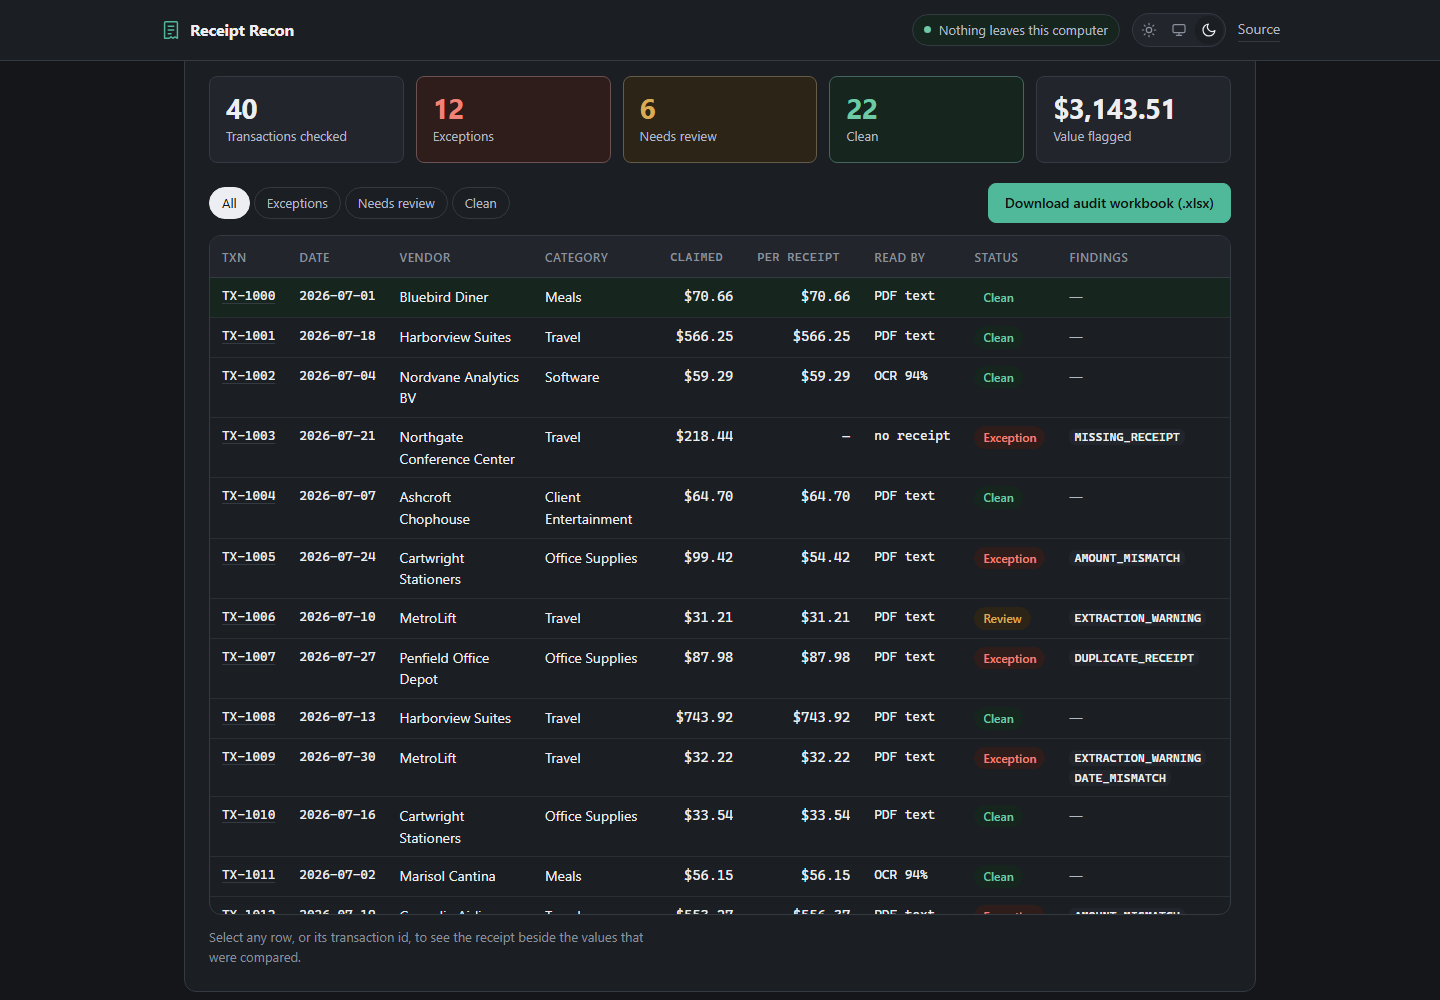
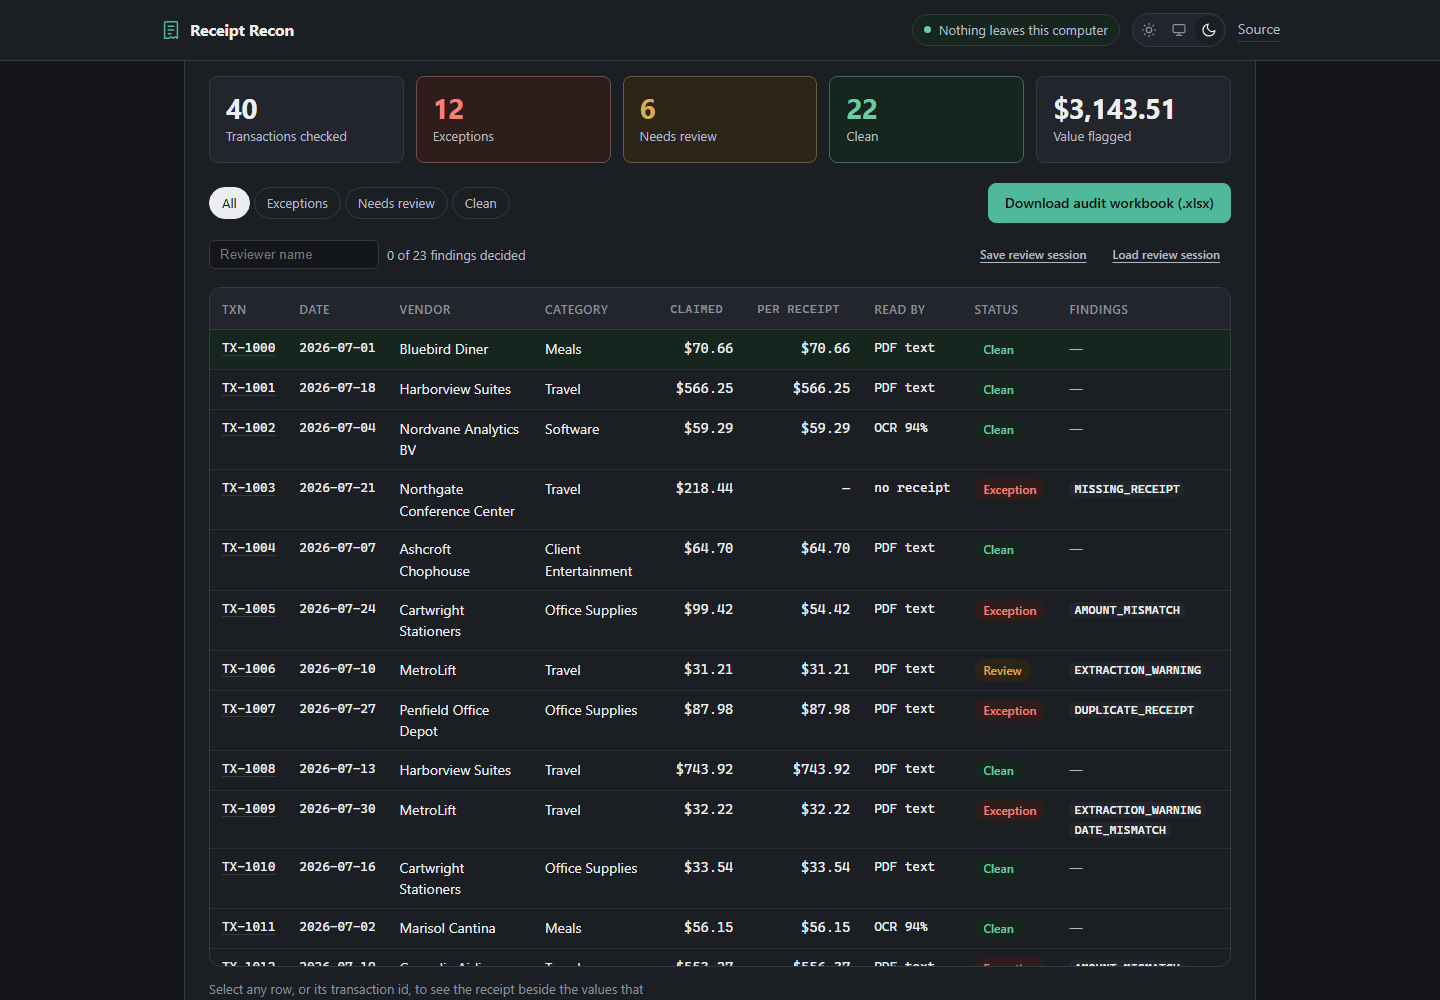
docs+test: browser/a11y coverage and docs for the roadmap batch
browser-check gains: policy-file round-trip and rejection, FX view with the
conversion-free guarantee, column-mapping override driving the audit, PNG
receipt via OCR, ignored-files-by-name, statement reconciliation, reviewer
decision landing in the workbook with the run hash unmoved. a11y-check gains:
focus and naming for every new control, keyboard-only decisions. README,
ROADMAP status, DECISIONS entries for the three owner calls. Screenshots
regenerated.

Claude-Session: https://claude.ai/code/session_01KsNSdUtTFSrRJa7FjuRoH4

diff --git a/README.md b/README.md
@@ -100,6 +100,11 @@ Every rule is deterministic and every threshold is editable in the UI.
 - `BUDGET_CURRENCY_AMBIGUOUS` — a budget line with no stated currency over spend in several currencies; unverifiable, and says so
 - `BUDGET_UNBUDGETED_SPEND` — spend in a category the budget never mentions
 
+**Card-statement reconciliation**, when you drop in the month's card export (optional, local file only — no bank connection)
+- `UNCLAIMED_CHARGE` — a statement charge with no matching expense row at all: spend that was never reported. This used to be the tool's biggest declared blind spot
+- `CLAIMED_NOT_ON_STATEMENT` — an expense row with no charge behind it. Soft, because cash or a personal card is an innocent explanation
+- Matching is one-to-one, within a named date tolerance (default 5 days, editable) and the amount tolerance; amounts are compared as absolute values because card exports disagree on sign, and payment lines are skipped and disclosed
+
 **Patterns across the whole batch** (invisible to any per-row check)
 - `DUPLICATE_RECEIPT` — the same PDF cited by two rows; both get flagged, because the tool cannot know which is the original
 - `DUPLICATE_CHARGE` — same vendor, date and amount claimed twice under different receipts
@@ -110,14 +115,15 @@ Every rule is deterministic and every threshold is editable in the UI.
 
 ## What you get
 
-An `.xlsx` with four tabs, five when a budget was reconciled:
+An `.xlsx` with four tabs, plus one each when a budget or a card statement was reconciled:
 
 | Tab | What's in it |
 | --- | --- |
-| **Summary** | Counts, value flagged per currency, findings by rule, and a SHA-256 run hash |
+| **Summary** | Counts, value flagged per currency, findings by rule, a per-employee breakdown sorted by flagged value, and a SHA-256 run hash |
 | **Audit Detail** | Every transaction, not just the problems, with how each receipt was read and at what confidence |
-| **Exceptions** | One row per finding, with the triggering value, the threshold, and blank **reviewer decision / reviewer / date / note** columns |
-| **Budget Recon** | Each budget line against actual spend in its own currency, with the overruns and everything that could not be verified |
+| **Exceptions** | One row per finding, with the triggering value, the threshold, and the **reviewer decision / reviewer / date / note** columns — pre-filled with the decisions you made in the evidence drawer, blank where the item is still open |
+| **Budget Recon** | Each budget line against actual spend in its own currency, with the overruns and everything that could not be verified. If you typed FX rates into the policy panel, a clearly labelled "at your stated rates" estimate is appended — findings never use it |
+| **Statement Recon** | The matching rule with its tolerances, every unclaimed charge, and the rows with no charge behind them |
 | **Methodology** | The ruleset version, every threshold applied, and an explicit list of what was *not* verified |
 
 The run hash is the reproducibility proof: same report, same receipts, same policy,
@@ -147,14 +153,30 @@ python tools/make_sample_data.py --count 350
    sheet holding the transactions is found automatically, and if the workbook has
    a budget or cover sheet (a table with a category column and a budget column,
    in one currency or several), it is picked up and reconciled against the
-   report. Both guesses are shown as dropdowns you can override.
-3. Drop in the receipts folder. Files are matched by the receipt-file column, falling
-   back to matching on the transaction ID.
-4. Adjust **Policy settings** to your own thresholds and word lists — category
+   report. Both guesses are shown as dropdowns you can override — and **Columns
+   we found** shows exactly which column feeds each field, with a dropdown per
+   field to correct a wrong guess. Corrections are remembered on this computer
+   for files with the same header row, so a monthly export is fixed once.
+3. Drop in the receipts folder. PDFs and phone photos (`.jpg`, `.jpeg`, `.png`,
+   `.webp`) both work; photos are read by the OCR tier. Files are matched by the
+   receipt-file column, falling back to matching on the transaction ID. Anything
+   that is not a receipt is reported ignored, by name.
+4. Optionally drop in the month's **card statement** export (`.xlsx` or `.csv`,
+   downloaded by you — the tool never connects to a bank). Charges that were
+   never expensed and expense rows with no charge behind them both surface.
+5. Adjust **Policy settings** to your own thresholds and word lists — category
    limits, alcohol and personal-expense keywords, receipt-exempt categories, all
    of it. Your policy is remembered in this browser (never uploaded), so an
-   in-house policy is taught once.
-5. **Run the audit**, then download the workbook.
+   in-house policy is taught once. **Save policy file** writes it to a plain
+   JSON file you can keep in version control or hand to a colleague; **Load
+   policy file** applies one, after checking every value's type. You can also
+   type month-end FX rates: they feed only a clearly labelled "at your stated
+   rates" estimate under the budget card — no finding ever converts a currency.
+6. **Run the audit.** Review each finding in the evidence drawer: Approve,
+   Reject or Needs-follow-up, with a note. Decisions land in the workbook's
+   Exceptions tab, and **Save review session** keeps them as a file you can
+   reload later — they are deliberately not stored in the browser.
+7. Download the workbook.
 
 Roughly a minute for 350 transactions when most have a text layer, longer if many
 need OCR.
@@ -179,8 +201,13 @@ light or dark from the top bar.
 
 Read these before relying on it.
 
-- **No bank or card statement is compared.** Only the report and its attachments. A
-  charge that exists with no row at all is invisible to this tool.
+- **The card statement is compared only if you supply it, and only that file.**
+  There is no bank connection, on purpose. Skip the statement drop and a charge
+  that exists with no expense row stays invisible, exactly as before.
+- **FX rates are yours, not the market's.** The "at your stated rates" view uses
+  numbers you typed; a hand-typed month-end rate rarely reconciles to the penny
+  against the card's actual conversion. That is why it is an estimate view and
+  never a finding.
 - **OCR quality on genuinely bad receipts is the weak point.** Tesseract handles clean
   scans well (94% confidence on the sample set) and struggles with crumpled, angled
   phone photos. Low-confidence reads are flagged, never silently accepted.
@@ -195,7 +222,7 @@ Read these before relying on it.
 ```bash
 npm install          # dev-only; the app itself has zero runtime dependencies
 npm run sample       # regenerate the sample data (needs Python + reportlab, openpyxl, pypdfium2)
-npm test             # 37 unit and integration tests
+npm test             # 87 unit and integration tests
 npm run serve        # http://localhost:8080
 node tools/browser-check.mjs   # drives the real page in a real browser
 node tools/a11y-check.mjs      # keyboard, focus, contrast, sorting, theming
@@ -209,15 +236,16 @@ external network request**. It also corrupts one PDF in a copy of the sample
 folder and asserts the run still renders all 40 rows with exactly one
 `UNREADABLE_RECEIPT`, because one bad file must cost one row and not the run.
 
-`a11y-check.mjs` asks whether the audit is **usable**. Twenty-two assertions,
-each one mapped to a defect that shipped in an earlier version: both file
-pickers reachable by Tab, focus moving into the evidence drawer and back out to
+`a11y-check.mjs` asks whether the audit is **usable**, with each assertion
+mapped to a defect that shipped in an earlier version: both file pickers
+reachable by Tab, focus moving into the evidence drawer and back out to
 the row that opened it, the table header actually sticking, sort order including
 the blanks-last rule, theme persistence across a reload, severity stated in
 words rather than colour alone, the evidence drawer paging through a multi-page
 receipt by keyboard, re-picking the receipts folder replacing the previous set
-instead of merging with it, and **every rendered text node measured against WCAG
-AA in both themes**. The contrast check is measured on the painted page, not
+instead of merging with it, reviewer decisions operable by keyboard alone with
+their pressed state exposed, every column-mapping select bound to a label, and
+**every rendered text node measured against WCAG AA in both themes**. The contrast check is measured on the painted page, not
 calculated from the tokens, so inherited colours and tinted parents cannot hide a
 failure.
 

diff --git a/docs/DECISIONS.md b/docs/DECISIONS.md
@@ -5,6 +5,53 @@ what was rejected, the date.
 
 ---
 
+## Statement reconciliation: named tolerances, HARD/SOFT split, no bank API
+
+**Date:** 2026-08-14
+
+**Decision.** Roadmap #19 shipped local-file only. The design spec it demanded:
+a statement charge matches an expense row when amounts agree within
+`amountToleranceAbs` and dates within `statementDateToleranceDays` (default 5,
+editable), same currency when both sides state one, one-to-one matching with
+smallest date gap winning and vendor similarity only as a tiebreak (issuer
+descriptors like "SQ *COFFEE SHOP" are too mangled to require a name match).
+Amounts compare as absolute values because issuers disagree on sign; payment
+lines are skipped by keyword and the skip count disclosed. An unmatched charge
+is `UNCLAIMED_CHARGE` at HARD, report-level — unreported spend is the blind spot
+the Methodology tab used to admit. An unmatched expense row is
+`CLAIMED_NOT_ON_STATEMENT` at SOFT, on the row — cash or a personal card is an
+innocent explanation. Parsed statement lines join the run-hash material when
+present. **Rejected:** any live bank connection (Plaid/OAuth), and HARD severity
+for rows missing from the statement.
+
+## Reviewer decisions persist as an explicit session file, never localStorage
+
+**Date:** 2026-08-14
+
+**Decision.** Roadmap #20's open question. Decisions live in memory, export to
+and reload from a JSON session file carrying the run hash, and are refused
+per-entry when they match no finding in the current run (hash mismatch warns).
+They stay out of the run hash: the hash proves what was audited, and a human's
+verdict is not an input to that. **Rejected:** localStorage auto-restore —
+silently keeping review verdicts on a shared corporate laptop contradicts the
+"nothing is retained" posture, the same reasoning that trimmed policy
+persistence in roadmap #14.
+
+## FX rates the user types feed a labelled estimate view only
+
+**Date:** 2026-08-14
+
+**Decision.** Roadmap #27 shipped as the disclosed-view variant: `fxRates` /
+`fxBase` in the policy produce an "at your stated rates" block on the budget
+card and workbook, with the rates printed beside the converted totals. Findings,
+budget lines and every comparison stay strictly per-currency. **Rejected:** the
+original proposal of converting inside the amount check — a hand-typed rate
+rarely reconciles to the penny against the card's real conversion, so it would
+manufacture mismatches of its own. RULESET_VERSION bumped 1.0.0 → 1.1.0 because
+the policy object is hash material and gained keys.
+
+---
+
 ## Browser-only, zero-install, over a Python pipeline
 
 **Date:** 2026-08-12

diff --git a/docs/ROADMAP.md b/docs/ROADMAP.md
@@ -9,6 +9,8 @@ on separate and deliberately conflicting lenses.
 
 **Status.** All eight ship-now items landed on 2026-08-12 in commit ec9db7a, each with the check its entry asked for. Test suites went from 19 unit, 14 browser and 17 accessibility assertions to 37, 15 and 22.
 
+**Status 2026-08-14.** Items 10, 11, 14, 15, 17, 19, 20 and 27 landed on branch `roadmap-batch`, each with its proof-it-shipped check. Deviations from the entries as written: #27 was built as the brainstormed disclosed-view variant (rates feed only a labelled "at your stated rates" budget estimate; the amount check stays conversion-free), and #20's persistence question was answered with an explicit session file rather than localStorage. #19's demanded design spec (tolerances, severities, sign handling) is recorded in docs/DECISIONS.md. Unit tests 37 → 87.
+
 | | Count |
 | --- | --- |
 | Ship now | 8 |
